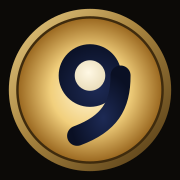
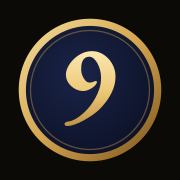
feat(brand): the mark is a gold 9 badge (owner, 2026-10-18)
From the hero's mock: a gold ring round a pale-gold serif 9 on the night's navy, the 9 being EB
Garamond's own lining figure at 700 (the title's hand, a weight up so it holds at 16px). The
same files at the same three levels of detail and the gilded hover pair, so the nav and the
hero's rule take it unchanged; the favicon and the home-screen icons rendered from it. The
headlamp it replaces is in git history.
Goldens: every site page's nav (forced: the mark alone is under the diff threshold); rooms-390
also loses a dev badge the old capture caught.

diff --git a/frontend/src/components/site/TopNav.tsx b/frontend/src/components/site/TopNav.tsx
@@ -2,11 +2,11 @@
 
 /**
  * The site's nav as the station's signboard (redesign handoff 2026-10-14, §1): the brand (the
- * train's headlamp mark, `scripts/brand-mark.mjs`, and the name in EB Garamond) and the three
+ * gold 9 badge, `scripts/brand-mark.mjs`, and the name in EB Garamond) and the three
  * doors as recessed wells on a wooden board in a brass frame, hung from two brass rods. The
  * current page's door is the cream plate (`aria-current`). The Rooms door carries a split-flap
  * counter of the tables boarding right now (`useBoarding`), blank until the server answers.
- * Pointing at the brand turns the headlamp up. The guide is not a door but an enamel sign
+ * Pointing at the brand gilds the badge brighter. The guide is not a door but an enamel sign
  * screwed to the board (owner, 2026-10-14): after the doors on a desktop, reading "Guide" beside
  * an open book; on a phone the book alone, at the end of the name's row, so the board keeps two
  * rows. On a phone the brand and the sign take the first row and the doors share the second.

diff --git a/frontend/docs/site_architecture.md b/frontend/docs/site_architecture.md
@@ -63,7 +63,7 @@ Which face goes where (three voices, three props) is ruled in [typography.md](ty
 
 | Component | What it is |
 |---|---|
-| `TopNav` | The station's signboard (redesign 2026-10-14 §1): the headlamp mark and the name in EB Garamond, and Play · Rooms · Replays as recessed wells on a board hung from two brass rods; the current page is the cream plate (`aria-current`). Rooms carries a split-flap count of the tables boarding (`hooks/useBoarding`, the same query as the departures board). The guide is not a fourth door but an enamel sign (`SITE.guide`, owner 2026-10-14): after the doors and a brass line, an open book and "Guide"; the book alone under 1060px; on a phone the book at the end of the name's row (the board is a grid there, so the sign never falls onto a row of its own, and the name shrinks to leave it room). Once the board scrolls away a slim strip of it pins to the top (`inert` while hidden); its name drops cleanly when the doors need the room; on a phone the strip keeps the book at its right end (owner 2026-10-15). On a phone the doors share a second row. |
+| `TopNav` | The station's signboard (redesign 2026-10-14 §1): the gold 9 badge (2026-10-18) and the name in EB Garamond, and Play · Rooms · Replays as recessed wells on a board hung from two brass rods; the current page is the cream plate (`aria-current`). Rooms carries a split-flap count of the tables boarding (`hooks/useBoarding`, the same query as the departures board). The guide is not a fourth door but an enamel sign (`SITE.guide`, owner 2026-10-14): after the doors and a brass line, an open book and "Guide"; the book alone under 1060px; on a phone the book at the end of the name's row (the board is a grid there, so the sign never falls onto a row of its own, and the name shrinks to leave it room). Once the board scrolls away a slim strip of it pins to the top (`inert` while hidden); its name drops cleanly when the doors need the room; on a phone the strip keeps the book at its right end (owner 2026-10-15). On a phone the doors share a second row. |
 | `Board.module.css` | The signage's materials, composed by every board on the site: `board` (wood in a brass frame: what you operate), `rivets`, `well` (a recessed button; `aria-current`/`-pressed`/`-selected` make it the cream plate), `plate` (the primary action), `enamel` (a navy sign screwed to a board: somewhere to read, not a door) and `flap` (one split-flap tile). Paper carries what you read; brass is for lines and hardware, never a small flat fill. |
 | `StationWall` | A page's wall: the landing's rooms behind the other pages (owner 2026-10-14). `records` (the archive: platform tile, oxblood band, pendant) and `granite` (the ticket office: granite under the caged wall light, `StationLamps`); the departures hall stands on the landing's `PlatformBackdrop`. Placed against `.station` from the page's top, under the page's own stacking context (`wallPage` on its `<main>`), capped where its light runs out, its foot faded to the page's ground. `cards` is the guide's: the roles' green tile, lit from over the board. Further down, each side of the guide's roles stands on the same tile in its own colour (ochre, oxblood, aubergine, slate; `Guide.module.css` `.side::before`, owner 2026-10-15). |
 | `SiteFooter` | The GitHub link with its icon, the other links, and the credit line, whose "N games archived" is live (`GamesArchived`, the archive's `X-Total-Count`). |
